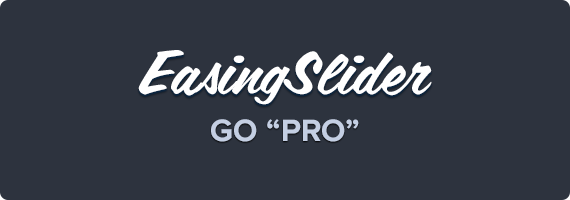
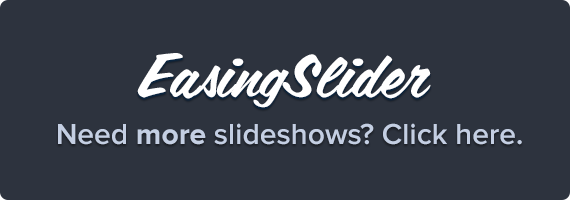
Made some CSS fixes and other changes. Upgrading version.
git-svn-id: https://plugins.svn.wordpress.org/easing-slider/trunk@921764 b8457f37-d9ea-0310-8a92-e5e31aec5664

Changed region(s): [[0.2386, 0.24, 0.7754, 0.54], [0.0895, 0.6, 0.9246, 0.72]]

diff --git a/css/admin.min.css b/css/admin.min.css
@@ -1,1 +1,1 @@
-.pull-left{float:left}.pull-right{float:right}.clearfix{*zoom:1}.clearfix::after,.clearfix::before{display:table;content:'';line-height:0}.clearfix::after{clear:both}.column-id{width:2em}.wp-media-buttons .button{padding-left:.4em;margin-right:5px}.wp-media-buttons .button:last-child{margin-right:0}.wp-media-buttons span.wp-media-buttons-icon{display:inline-block;width:16px;height:16px;vertical-align:text-top;margin:0 2px}.wp-media-buttons .add-image span.wp-media-buttons-icon{background:url(../../../../wp-admin/images/media-button.png) no-repeat top left}.wp-media-buttons .delete-images span.wp-media-buttons-icon{background:url(../images/trash.png) no-repeat 0 0;margin-top:-1px}.wp-media-buttons .edit-settings span.wp-media-buttons-icon{background:url(../../../../wp-admin/images/menu.png) no-repeat top left;background-position:-336px -40px}.multiple-checkbox{overflow-x:hidden;overflow-y:auto;border:1px solid #dfdfdf;background-color:#fff;width:25%;height:120px;-webkit-border-radius:3px;border-radius:3px}.multiple-checkbox ul{list-style-type:none;width:auto;line-height:1.2;margin:0;padding:0}.multiple-checkbox ul li{margin:0;padding:2px 2px 0 0;line-height:1.2}.multiple-checkbox ul li.odd{background-color:#f9f9f9}.multiple-checkbox ul li input{margin:0 5px}input.error,textarea.error{border-color:#b94a48!important;-webkit-box-shadow:1px 1px 2px rgba(213,147,146,.3)!important;box-shadow:1px 1px 2px rgba(213,147,146,.3)!important}input.success,textarea.success{border-color:#468847!important;-webkit-box-shadow:1px 1px 2px rgba(122,186,123,.3)!important;box-shadow:1px 1px 2px rgba(122,186,123,.3)!important}.main-panel{position:relative}.main-panel .description{font-size:11px;font-style:italic;display:block;color:#777;padding:5px 0}.divider{padding:0;margin:20px 0;width:100%;height:1px;background:#e6e6e6}.settings-container{float:right;clear:right;width:285px;padding-right:5px}.settings-container .widgets-holder-wrap{margin-top:0}.settings-container .sidebar-content{border-width:0 1px 1px;border-style:none solid solid;-webkit-border-bottom-right-radius:3px;-webkit-border-bottom-left-radius:3px;border-bottom-right-radius:3px;border-bottom-left-radius:3px;padding:10px;min-height:20px}.settings-container .sidebar-content .divider{margin-bottom:0}.settings-container .sidebar-content .field,.settings-container .sidebar-content .radio{width:100%;margin:1em 0}.settings-container .sidebar-content .field span{font-weight:700;display:block}.settings-container .sidebar-content .field{float:left}.settings-container .sidebar-content .field input,.settings-container .sidebar-content .field select{width:90%}.settings-container .sidebar-content .field input[type=checkbox]{width:auto;margin-right:4px}.settings-container .sidebar-content .radio>span{font-weight:700;float:left}.settings-container .sidebar-content .radio .buttons{float:right}.settings-container .sidebar-content .radio .buttons label{margin-right:10px}.settings-container .sidebar-content .radio .buttons input{margin-top:0;margin-right:2px}.settings-container .dimension-settings .field{width:45%}.settings-container .dimension-settings .field:first-child{margin-right:5%}.thumbnails-container{float:left;clear:left;width:100%;margin:15px -300px 0 0}.thumbnails-container .inner{margin-right:300px}.thumbnails-container .thumbnail{float:left;position:relative}.thumbnails-container .thumbnail .delete-button{position:absolute;top:-15px;right:5px;width:36px;height:36px;z-index:10;background:url(../images/delete_icon.png) no-repeat top left;cursor:pointer;opacity:0;-webkit-transition:opacity .125s ease;-moz-transition:opacity .125s ease;-ms-transition:opacity .125s ease;-o-transition:opacity .125s ease;transition:opacity .125s ease}.thumbnails-container .thumbnail:hover .delete-button{opacity:1}.thumbnails-container .thumbnail img{-moz-box-shadow:0 1px 4px 0 #a5a5a5;-webkit-box-shadow:0 1px 4px 0 #a5a5a5;box-shadow:0 1px 4px 0 #a5a5a5;-webkit-border-radius:2px;border-radius:2px;cursor:pointer;width:150px;height:150px;padding:0;margin:0 20px 20px 0}.media-frame-content,.media-frame-router,.media-frame-title,.media-frame-toolbar{left:0!important}.media-frame-content{padding:0 16px}.media-main{margin-right:283px}.media-main h2{font-weight:200}.media-main input,.media-main textarea{max-width:500px!important}.media-main textarea{height:200px;resize:none}.media-main .embed-link-settings{top:0}.media-main .setting{margin-top:30px!important}.media-main .setting:first-child{margin-top:0!important}.media-main .description{font-size:11px;margin-top:5px}.media-main .thumbnail{position:relative}.media-main .thumbnail .change-image{position:absolute;bottom:10px;right:10px;z-index:9999}.main-settings label>input{margin-top:0;margin-right:4px}.main-settings label>span{margin-right:20px}.easingsliderlite-updated-admin .welcome-panel{padding-bottom:11px}.easingsliderlite-updated-admin .sidebar-name{border-bottom:1px solid #eee}.easingsliderlite-updated-admin .closed .sidebar-name{border-width:0}.easingsliderlite-updated-admin .sidebar-name h3{padding:15px}.easingsliderlite-updated-admin .sidebar-name-arrow:before{top:4px!important}.easingsliderlite-updated-admin .sidebar-content{border-color:#fff}.easingsliderlite-updated-admin .widgets-holder-wrap{margin-bottom:9px}.easingsliderlite-updated-admin .settings-container .sidebar-content{padding-left:15px;padding-right:15px}.easingsliderlite-updated-admin .customize-container{background-image:none!important}
+.pull-left{float:left}.pull-right{float:right}.clearfix{*zoom:1}.clearfix::after,.clearfix::before{display:table;content:'';line-height:0}.clearfix::after{clear:both}.column-id{width:2em}.wp-media-buttons .button{padding-left:.4em;margin-right:5px}.wp-media-buttons .button:last-child{margin-right:0}.wp-media-buttons span.wp-media-buttons-icon{display:inline-block;width:16px;height:16px;vertical-align:text-top;margin:0 2px}.wp-media-buttons .add-image span.wp-media-buttons-icon{background:url(../../../../wp-admin/images/media-button.png) no-repeat top left}.wp-media-buttons .delete-images span.wp-media-buttons-icon{background:url(../images/trash.png) no-repeat 0 0;margin-top:-1px}.wp-media-buttons .edit-settings span.wp-media-buttons-icon{background:url(../../../../wp-admin/images/menu.png) no-repeat top left;background-position:-336px -40px}.multiple-checkbox{overflow-x:hidden;overflow-y:auto;border:1px solid #dfdfdf;background-color:#fff;width:25%;height:120px;-webkit-border-radius:3px;border-radius:3px}.multiple-checkbox ul{list-style-type:none;width:auto;line-height:1.2;margin:0;padding:0}.multiple-checkbox ul li{margin:0;padding:2px 2px 0 0;line-height:1.2}.multiple-checkbox ul li.odd{background-color:#f9f9f9}.multiple-checkbox ul li input{margin:0 5px}input.error,textarea.error{border-color:#b94a48!important;-webkit-box-shadow:1px 1px 2px rgba(213,147,146,.3)!important;box-shadow:1px 1px 2px rgba(213,147,146,.3)!important}input.success,textarea.success{border-color:#468847!important;-webkit-box-shadow:1px 1px 2px rgba(122,186,123,.3)!important;box-shadow:1px 1px 2px rgba(122,186,123,.3)!important}.main-panel{position:relative}.main-panel .description{font-size:11px;font-style:italic;display:block;color:#777;padding:5px 0}.divider{padding:0;margin:20px 0;width:100%;height:1px;background:#e6e6e6}.settings-container{float:right;clear:right;width:285px;padding-right:5px}.settings-container .widgets-holder-wrap{margin-top:0}.settings-container .sidebar-content{border-width:0 1px 1px;border-style:none solid solid;-webkit-border-bottom-right-radius:3px;-webkit-border-bottom-left-radius:3px;border-bottom-right-radius:3px;border-bottom-left-radius:3px;padding:10px;min-height:20px}.settings-container .sidebar-content .divider{margin-bottom:0}.settings-container .sidebar-content .field,.settings-container .sidebar-content .radio{width:100%;margin:1em 0}.settings-container .sidebar-content .field span{font-weight:700;display:block}.settings-container .sidebar-content .field{float:left}.settings-container .sidebar-content .field input,.settings-container .sidebar-content .field select{width:90%}.settings-container .sidebar-content .field input[type=checkbox]{width:auto;margin-right:4px}.settings-container .sidebar-content .radio>span{font-weight:700;float:left}.settings-container .sidebar-content .radio .buttons{float:right}.settings-container .sidebar-content .radio .buttons label{margin-right:10px}.settings-container .sidebar-content .radio .buttons input{margin-top:0;margin-right:2px}.settings-container .dimension-settings .field{width:45%}.settings-container .dimension-settings .field:first-child{margin-right:5%}.thumbnails-container{float:left;clear:left;width:100%;margin:15px -300px 0 0}.thumbnails-container .inner{margin-right:300px}.thumbnails-container .thumbnail{float:left;position:relative}.thumbnails-container .thumbnail .delete-button{position:absolute;top:-15px;right:5px;width:36px;height:36px;z-index:10;background:url(../images/delete_icon.png) no-repeat top left;cursor:pointer;opacity:0;-webkit-transition:opacity .125s ease;-moz-transition:opacity .125s ease;-ms-transition:opacity .125s ease;-o-transition:opacity .125s ease;transition:opacity .125s ease}.thumbnails-container .thumbnail:hover .delete-button{opacity:1}.thumbnails-container .thumbnail img{-moz-box-shadow:0 1px 4px 0 #a5a5a5;-webkit-box-shadow:0 1px 4px 0 #a5a5a5;box-shadow:0 1px 4px 0 #a5a5a5;-webkit-border-radius:2px;border-radius:2px;cursor:pointer;width:150px;height:150px;padding:0;margin:0 20px 20px 0}.media-frame-content,.media-frame-router,.media-frame-title,.media-frame-toolbar{left:0!important}.media-frame-content{padding:0 16px}.media-main{margin-right:283px}.media-main h2{font-weight:200}.media-main input,.media-main textarea{max-width:500px!important}.media-main textarea{height:200px;resize:none}.media-main .embed-link-settings{top:0}.media-main .setting{margin-top:30px!important}.media-main .setting:first-child{margin-top:0!important}.media-main .description{font-size:11px;margin-top:5px}.media-main .thumbnail{position:relative}.media-main .thumbnail .change-image{position:absolute;bottom:10px;right:10px;z-index:9999}.main-settings label>input{margin-top:0;margin-right:4px}.main-settings label>span{margin-right:20px}.easingsliderlite-updated-admin .welcome-panel{padding-bottom:11px}.easingsliderlite-updated-admin .sidebar-name{border-bottom:1px solid #eee}.easingsliderlite-updated-admin .closed .sidebar-name{border-width:0}.easingsliderlite-updated-admin .sidebar-name h3{padding:15px}.easingsliderlite-updated-admin .sidebar-name-arrow:before{top:4px!important}.easingsliderlite-updated-admin .sidebar-content{border-color:#fff}.easingsliderlite-updated-admin .widgets-holder-wrap{margin-bottom:9px}.easingsliderlite-updated-admin .settings-container .sidebar-content{padding-left:15px;padding-right:15px}.easingsliderlite-updated-admin .customize-container{background-image:none!important}.easingsliderlite-updated-admin .wp-media-buttons span.wp-media-buttons-icon{margin-top:1px}

diff --git a/css/admin.css b/css/admin.css
@@ -318,3 +318,7 @@ textarea.success {
 .easingsliderlite-updated-admin .customize-container {
     background-image: none !important;
 }
+
+.easingsliderlite-updated-admin .wp-media-buttons span.wp-media-buttons-icon {
+    margin-top: 1px;
+}

diff --git a/templates/editslideshow-sidebar.php b/templates/editslideshow-sidebar.php
@@ -1,7 +1,7 @@
 <?php if ( !apply_filters( 'easingsliderlite_hide_advert', __return_false() ) ) : ?>
 <div style="margin-bottom: 15px;">
-    <a href="http://easingslider.com/" target="_blank">
-        <img src="<?php echo plugins_url( dirname( plugin_basename( EasingSliderLite::get_file() ) ) ) . DIRECTORY_SEPARATOR .'images'. DIRECTORY_SEPARATOR .'banner-easingsliderpro.png'; ?>" width="285" height="100" alt="<?php _e( 'Easing Slider, Go Pro!', 'easingsliderlite' ); ?>" />
+    <a href="http://easingslider.com/upgrade-to-pro" target="_blank">
+        <img src="<?php echo plugins_url( dirname( plugin_basename( EasingSliderLite::get_file() ) ) ) . DIRECTORY_SEPARATOR .'images'. DIRECTORY_SEPARATOR .'banner-easingsliderpro.png'; ?>" width="285" height="100" alt="<?php _e( 'Need more slideshow? Click here.', 'easingsliderlite' ); ?>" />
     </a>
 </div>
 
@@ -20,8 +20,8 @@
     </div>
     <div class="sidebar-content widgets-sortables clearfix">
         <div class="hide-if-no-js manage-slides-buttons wp-media-buttons" style="margin-top: 1em;">
-            <a href="#" id="add-image" class="button button-secondary add-image" data-editor="content" title="<?php _e( 'Add Images', 'easingsliderlite' ); ?>"><span class="wp-media-buttons-icon"></span> <?php _e( 'Add Images', 'easingsliderlite' ); ?></a>
-            <a href="#" id="delete-images" class="button button-secondary delete-images" title="<?php _e( 'Delete Images', 'easingsliderlite' ); ?>"><span class="wp-media-buttons-icon"></span> <?php _e( 'Delete Images', 'easingsliderlite' ); ?></a>
+            <a href="#" id="add-image" class="button button-secondary add-image" data-editor="content" title="<?php _e( 'Add Images', 'easingsliderlite' ); ?>"><span class="wp-media-buttons-icon" style="margin-top: 1px;"></span> <?php _e( 'Add Images', 'easingsliderlite' ); ?></a>
+            <a href="#" id="delete-images" class="button button-secondary delete-images" title="<?php _e( 'Delete Images', 'easingsliderlite' ); ?>"><span class="wp-media-buttons-icon" style="margin-top: 1px;"></span> <?php _e( 'Delete Images', 'easingsliderlite' ); ?></a>
             <?php do_action( 'easingsliderlite_manage_slides_buttons', $s ); ?>
         </div>
         <div class="field">

diff --git a/easingsliderlite.php b/easingsliderlite.php
@@ -3,7 +3,7 @@
 /*
     Plugin Name: Easing Slider "Lite"
     Plugin URI: http://easingslider.com/
-    Version: 2.1.4.1
+    Version: 2.1.4.2
     Author: Matthew Ruddy
     Author URI: http://matthewruddy.com/
     Description: Easing Slider "Lite" is an easy to use slideshow plugin for WordPress. Simple, lightweight & designed to get the job done, it allows you to get going without any fuss.
@@ -60,7 +60,7 @@ class EasingSliderLite {
      *
      * @since 2.0
      */
-    public static $version = '2.1.4.1';
+    public static $version = '2.1.4.2';
 
     /**
      * Our array of Easing Slider "Lite" admin pages. These are used to conditionally load scripts.
